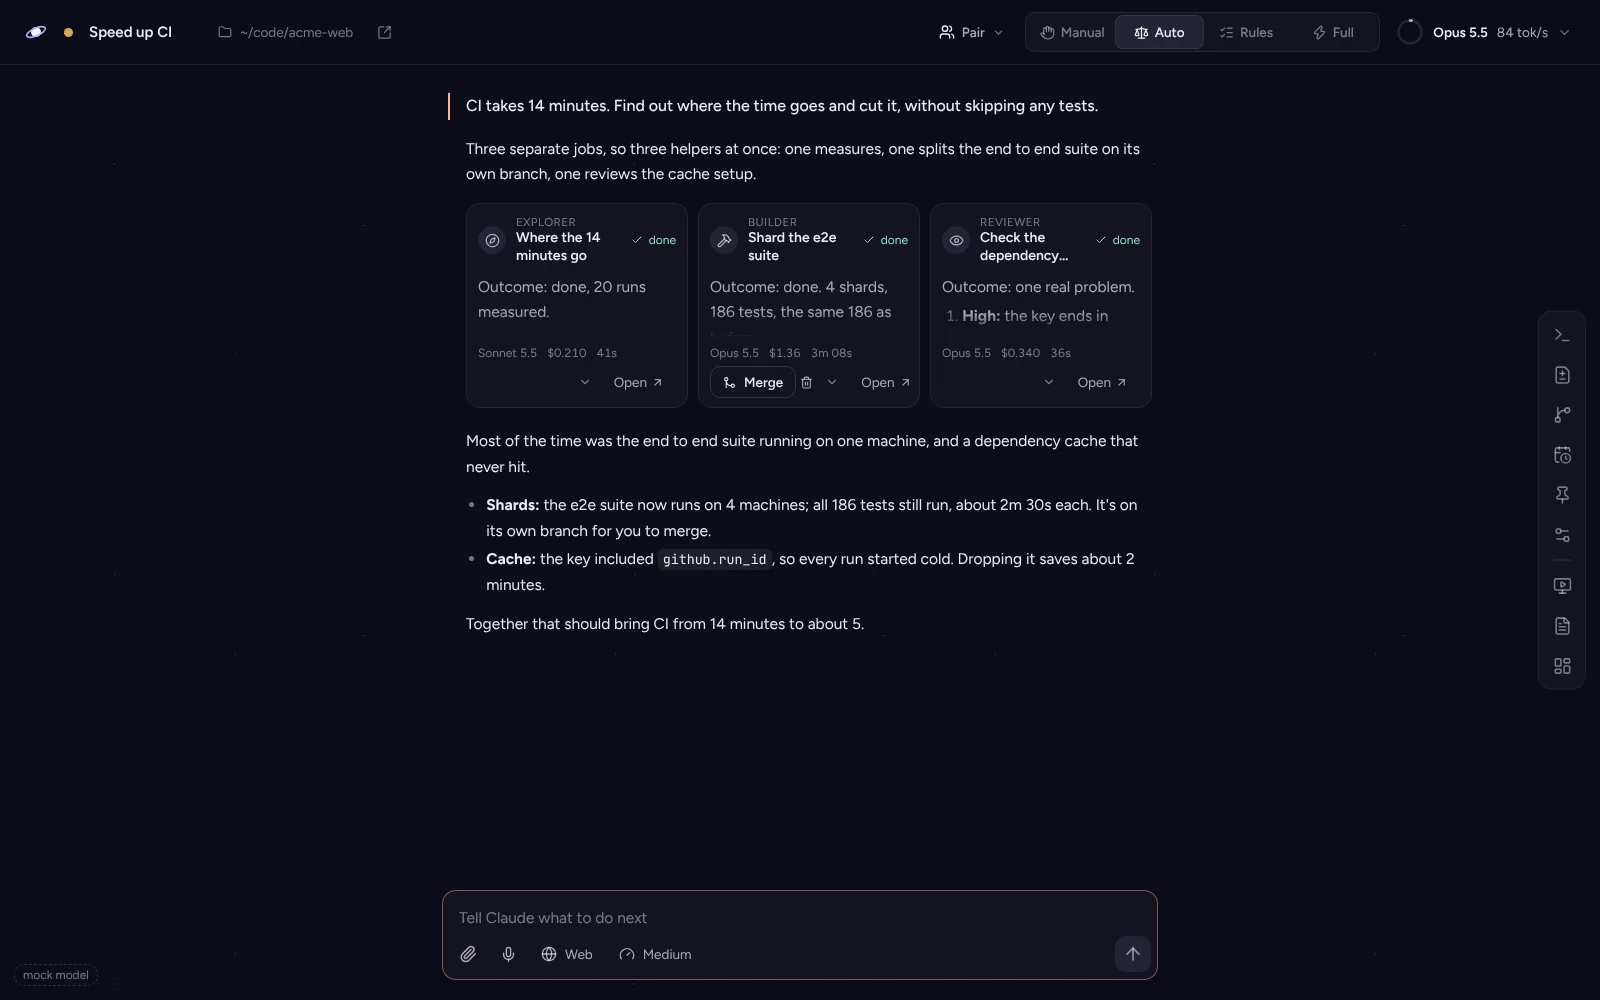
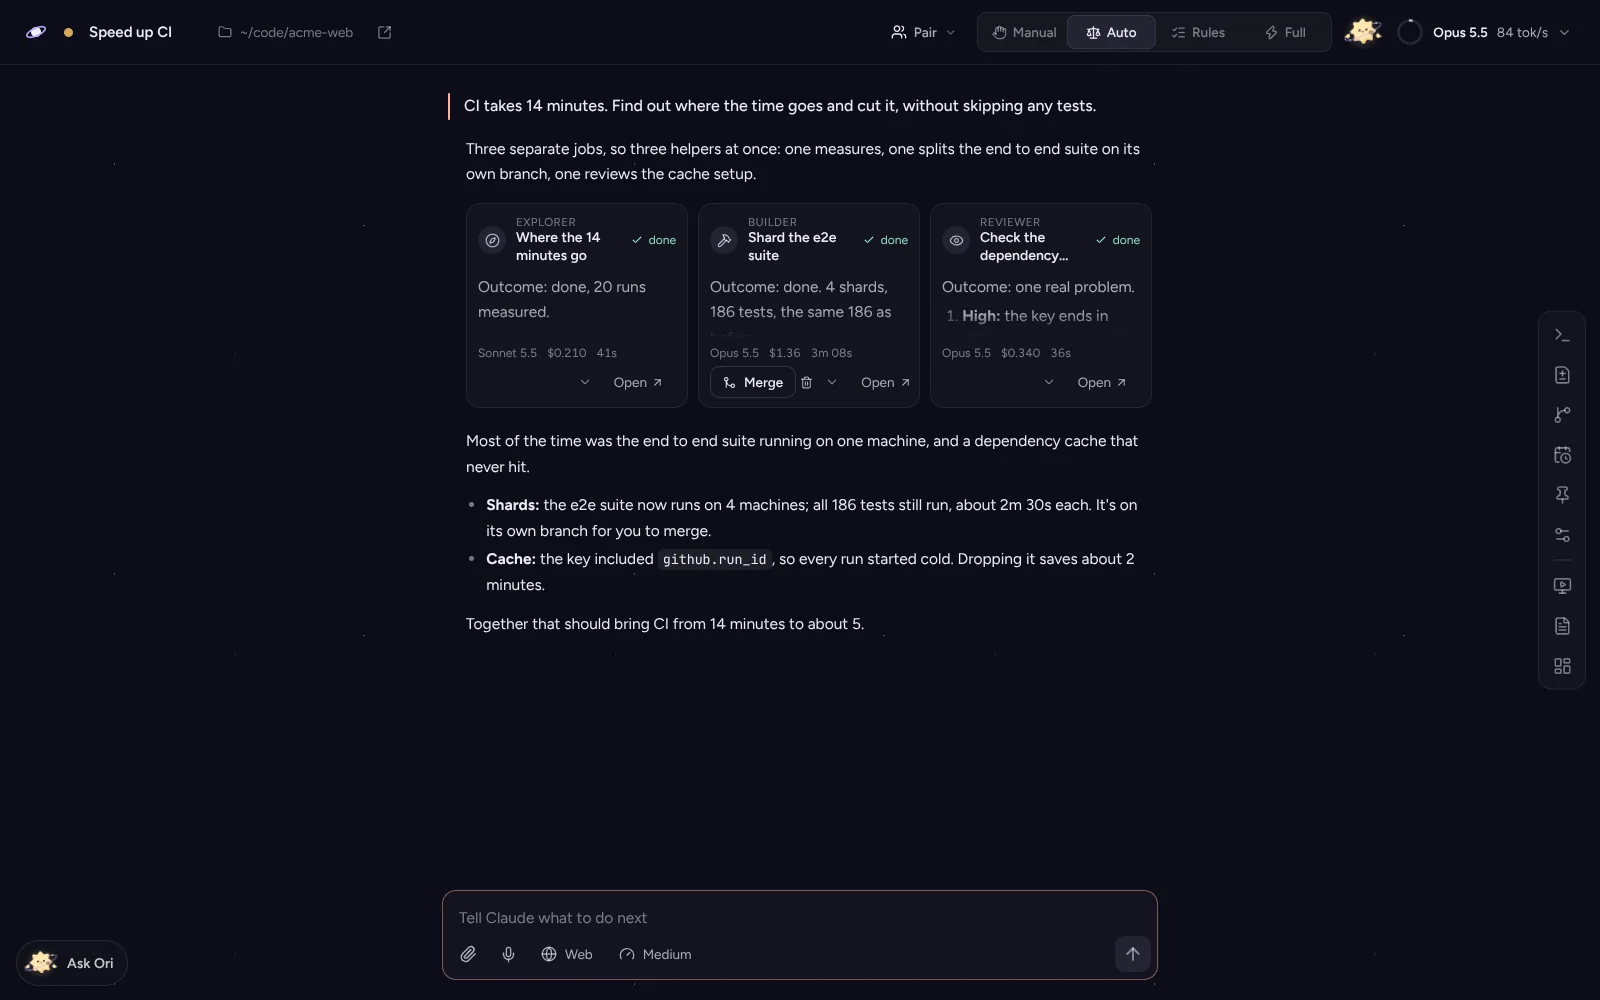
README: new screenshots, the wizard, Ask Ori and the tour

Changed region(s): [[0.2812, 0.093, 0.6875, 0.124], [0.5625, 0.0, 0.875, 0.062], [0.0, 0.93, 0.0625, 0.992]]

diff --git a/README.md b/README.md
@@ -64,6 +64,10 @@ Orbit when you ask:
 - **Tours.** Ori walks you around the sky or a workspace with a spotlight.
   The first visit to each offers it once.
 
+| | | |
+| --- | --- | --- |
+| ![The setup wizard: Ori asks who says yes](docs/images/welcome.webp) | ![Ask Ori: topics and the tour, from the corner of the sky](docs/images/ask-ori.webp) | ![The sky tour: a spotlight on where you start](docs/images/tour.webp) |
+
 All fifteen poses, and how to use them: [docs/ORI.md](docs/ORI.md).
 
 ---
